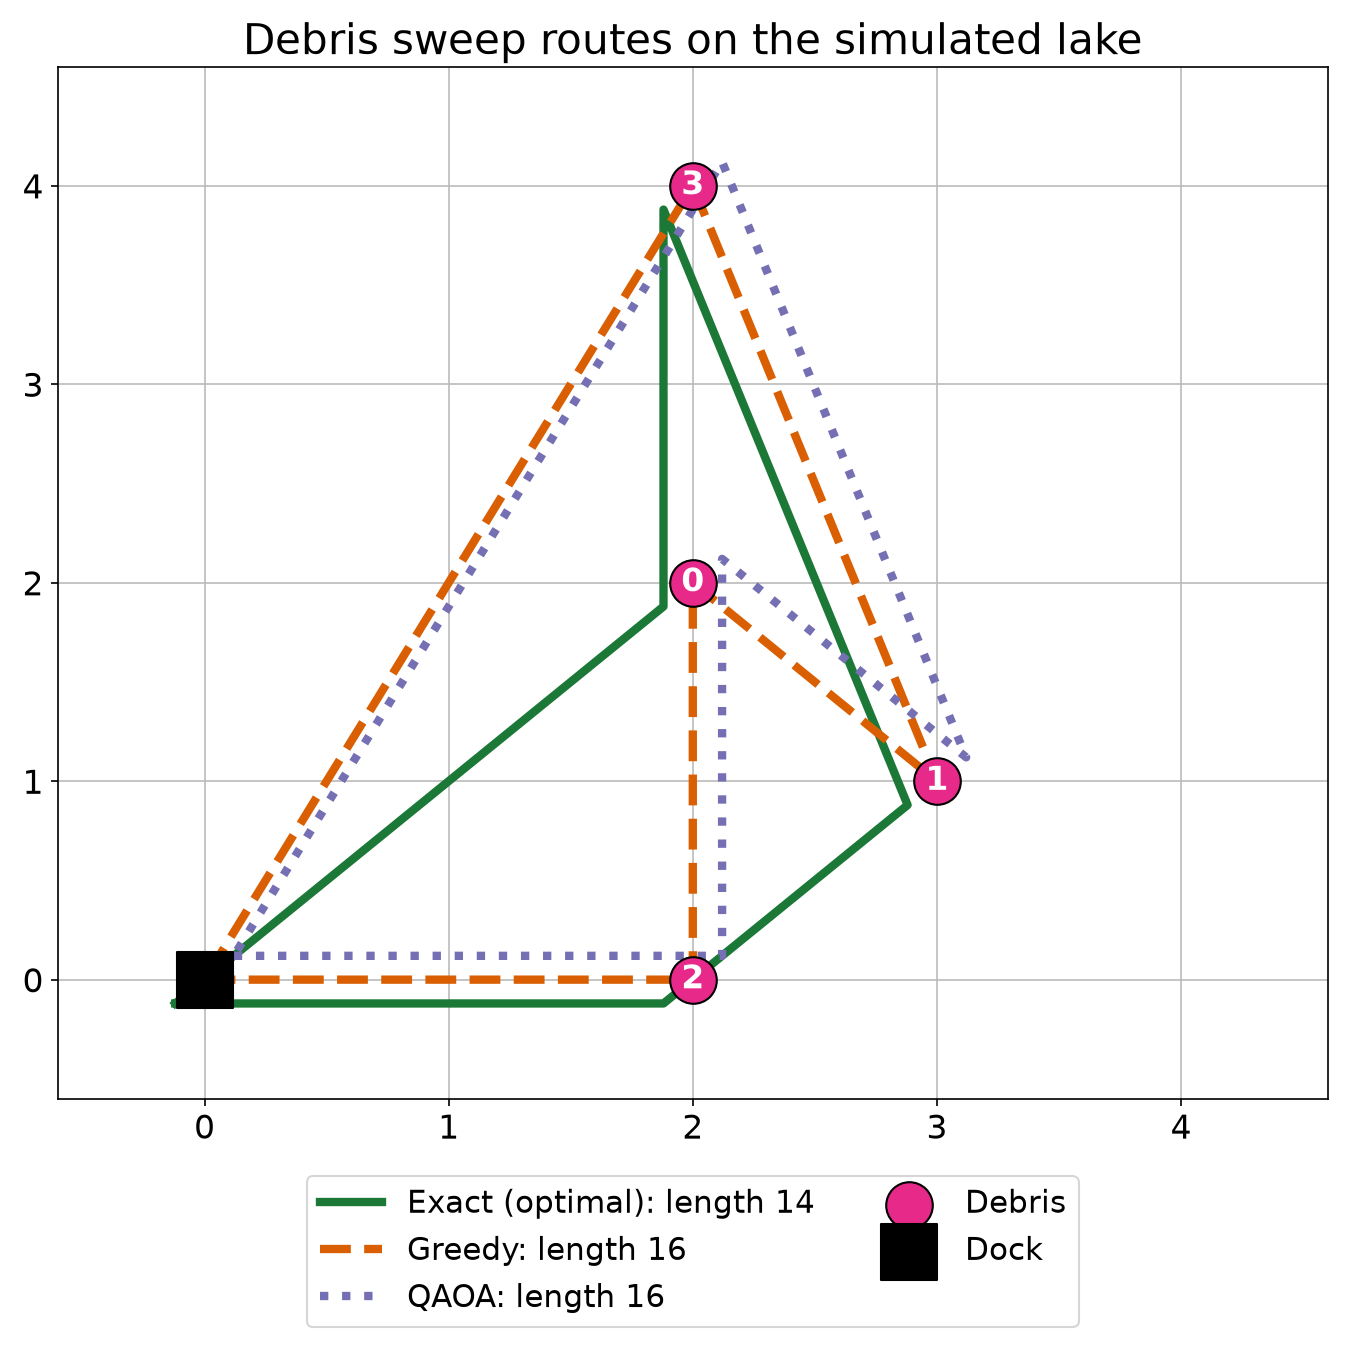
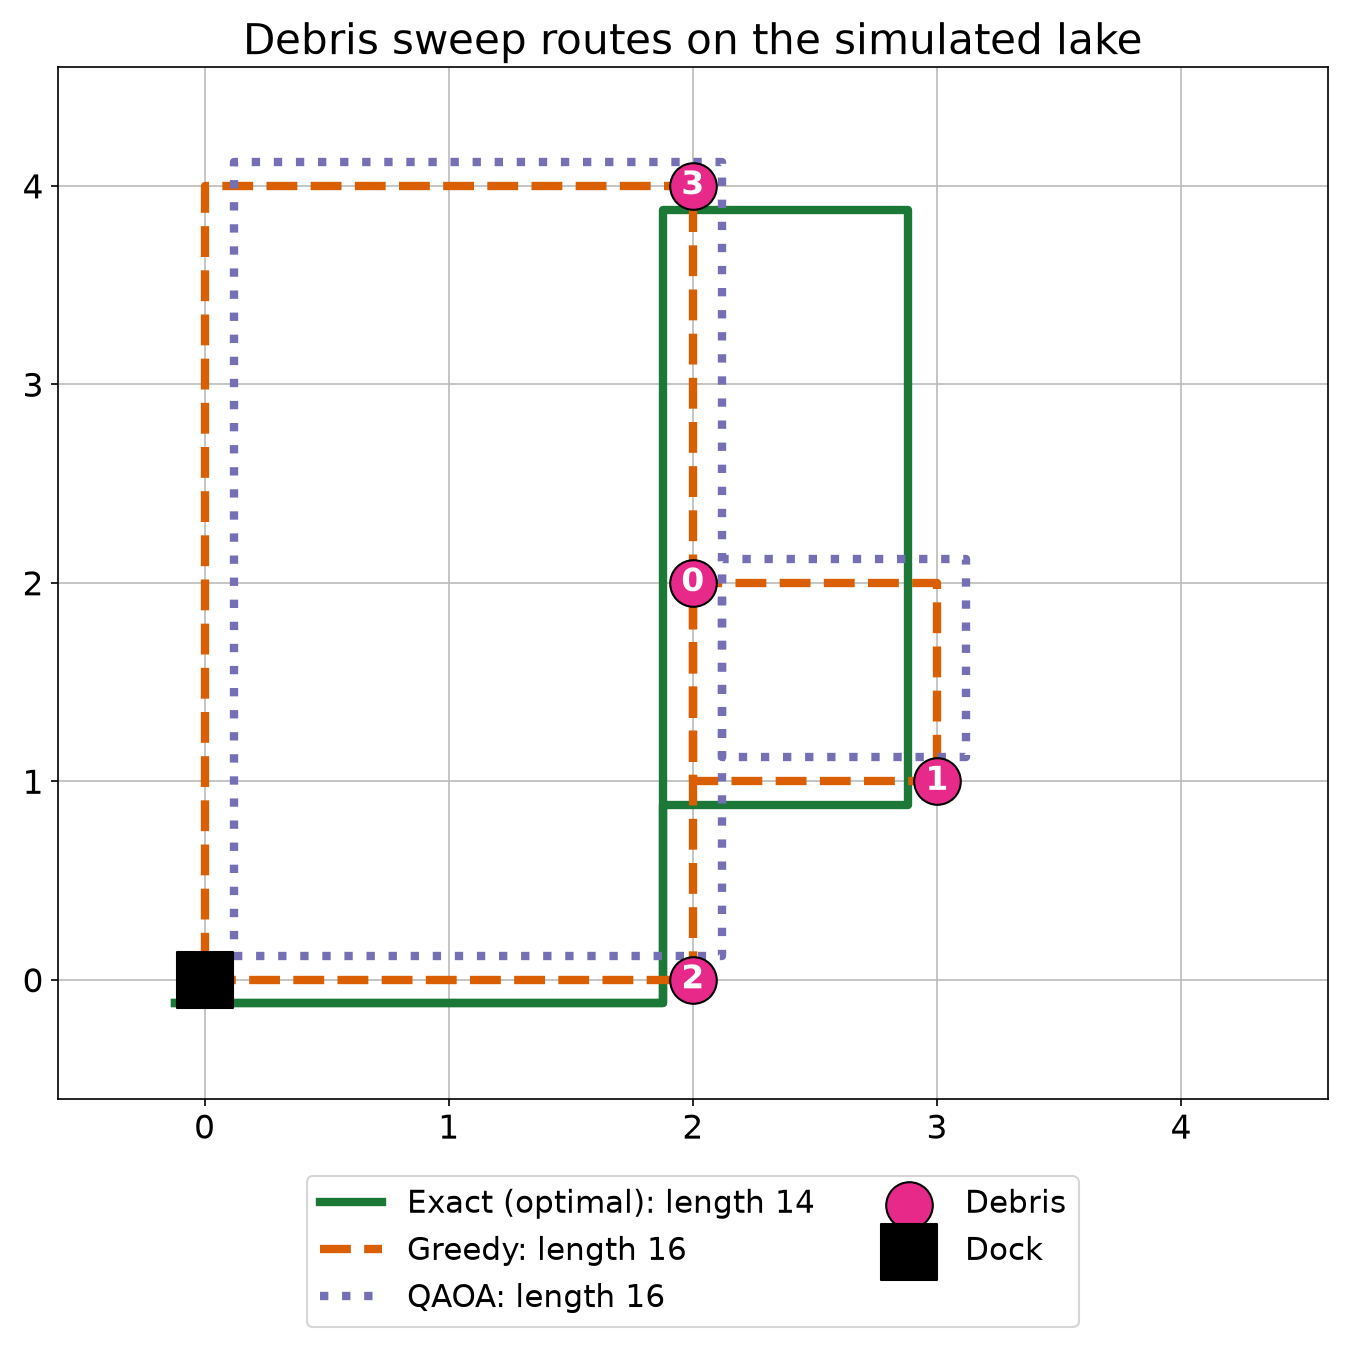
draw routes along grid lines, rework benchmark chart, add LICENSE, demo script and slide outline

diff --git a/src/plotting.py b/src/plotting.py
@@ -19,8 +19,12 @@ def plot_routes(dock, debris, routes, size=5, path="results/route_comparison.png
             ax.plot([], [], color=colour, ls=ls, lw=4, label=f"{LABELS[m]}: no valid route")
             continue
         pts = [dock] + [debris[i] for i in order] + [dock]
-        ax.plot([p[0] + off for p in pts], [p[1] + off for p in pts], color=colour,
-                ls=ls, lw=4, label=f"{LABELS[m]}: length {length}")
+        # The rover moves along grid lines, so draw each leg as an L (x first, then y).
+        xs, ys = [pts[0][0] + off], [pts[0][1] + off]
+        for (_, y0), (x1, y1) in zip(pts, pts[1:]):
+            xs += [x1 + off, x1 + off]
+            ys += [y0 + off, y1 + off]
+        ax.plot(xs, ys, color=colour, ls=ls, lw=4, label=f"{LABELS[m]}: length {length}")
     ax.scatter(*zip(*debris), s=500, c="#e7298a", edgecolor="black", zorder=5, label="Debris")
     for i, (x, y) in enumerate(debris):
         ax.text(x, y, str(i), ha="center", va="center", color="white", fontsize=16,
@@ -42,25 +46,34 @@ def plot_routes(dock, debris, routes, size=5, path="results/route_comparison.png
 
 
 def plot_benchmark(summary, path="results/benchmark.png"):
-    """summary: {k: {method: mean_ratio_or_None}} drawn as grouped bars."""
+    """summary: {k: {method: {'mean_ratio', 'optimal_rate', 'route_found_rate'}}}."""
     methods = ["exact", "greedy", "random_sampling", "qaoa_p1", "qaoa_p2"]
     colours = ["#1b7837", "#d95f02", "#999999", "#7570b3", "#c2a5cf"]
     ks = sorted(summary)
     width = 0.8 / len(methods)
-    fig, ax = plt.subplots(figsize=(11, 7))
-    for j, m in enumerate(methods):
-        vals = [summary[k].get(m) or 0 for k in ks]
-        xs = [i + j * width for i in range(len(ks))]
-        bars = ax.bar(xs, vals, width, label=m, color=colours[j], edgecolor="black")
-        for b, v in zip(bars, vals):
-            ax.text(b.get_x() + b.get_width() / 2, v + 0.01, f"{v:.2f}", ha="center", fontsize=12)
-    ax.axhline(1.0, color="black", lw=1)
-    ax.set_xticks([i + 0.4 - width / 2 for i in range(len(ks))])
-    ax.set_xticklabels([f"K = {k}" for k in ks], fontsize=16)
-    ax.set_ylabel("Mean route length / optimal (1.00 = optimal)", fontsize=15)
-    ax.set_title("Route length ratio by method", fontsize=20)
-    ax.tick_params(axis="y", labelsize=14)
-    ax.legend(fontsize=13)
-    fig.tight_layout()
+    fig, axes = plt.subplots(1, 2, figsize=(15, 7))
+    panels = [("mean_ratio", "Mean length / optimal (1.00 = optimal)", 1.0),
+              ("optimal_rate", "Fraction of seeds where optimum was found", 0.0)]
+    for ax, (key, ylabel, base) in zip(axes, panels):
+        for j, m in enumerate(methods):
+            vals = [summary[k][m][key] or 0 for k in ks]
+            xs = [i + j * width for i in range(len(ks))]
+            bars = ax.bar(xs, [v - base if base else v for v in vals], width, bottom=base,
+                          label=m, color=colours[j], edgecolor="black")
+            for b, v in zip(bars, vals):
+                ax.text(b.get_x() + b.get_width() / 2, max(v, base) + 0.01, f"{v:.2f}",
+                        ha="center", fontsize=11)
+        ax.set_xticks([i + 0.4 - width / 2 for i in range(len(ks))])
+        ax.set_xticklabels([f"K = {k}" for k in ks], fontsize=16)
+        ax.set_ylabel(ylabel, fontsize=14)
+        ax.tick_params(axis="y", labelsize=13)
+    axes[0].set_ylim(0.95, 1.22)
+    axes[1].set_ylim(0, 1.12)
+    axes[0].legend(fontsize=12, loc="upper left")
+    found = "; ".join(f"{m} {summary[max(ks)][m]['route_found_rate']:.0%}" for m in methods[2:])
+    fig.suptitle("Route quality by method", fontsize=20)
+    fig.text(0.5, 0.01, f"Ratio is averaged over seeds where a valid route was found. "
+             f"Seeds with a route at K={max(ks)}: {found}.", ha="center", fontsize=12)
+    fig.tight_layout(rect=(0, 0.04, 1, 0.97))
     fig.savefig(path, dpi=150)
     plt.close(fig)

diff --git a/run_benchmark.py b/run_benchmark.py
@@ -18,21 +18,39 @@ def summarise(rows):
     for m in dict.fromkeys(r["method"] for r in rows):
         mine = [r for r in rows if r["method"] == m]
         found = [r for r in mine if r["found_route"]]
-        has_vf = "valid_fraction" in mine[0]
+        vfs = [r["valid_fraction"] for r in mine if isinstance(r.get("valid_fraction"), float)]
         out[m] = {
             "mean_ratio": float(np.mean([r["ratio"] for r in found])) if found else None,
             "optimal_rate": sum(r["is_optimal"] for r in mine) / len(mine),
             "route_found_rate": len(found) / len(mine),
-            "mean_valid_fraction": float(np.mean([r["valid_fraction"] for r in mine])) if has_vf else None,
+            "mean_valid_fraction": float(np.mean(vfs)) if vfs else None,
         }
     return out
+
+
+def replot():
+    """Rebuild the chart from results/benchmark.csv without re-running anything."""
+    rows = []
+    for r in csv.DictReader(open("results/benchmark.csv")):
+        r["k"] = int(r["k"])
+        r["found_route"] = r["found_route"] == "True"
+        r["is_optimal"] = r["is_optimal"] == "True"
+        r["ratio"] = float(r["ratio"]) if r["ratio"] else None
+        if r["valid_fraction"]:
+            r["valid_fraction"] = float(r["valid_fraction"])
+        rows.append(r)
+    plot_benchmark({k: summarise([r for r in rows if r["k"] == k]) for k in sorted({r["k"] for r in rows})})
 
 
 def main():
     ap = argparse.ArgumentParser()
     ap.add_argument("--ks", type=int, nargs="+", default=[3, 4])
     ap.add_argument("--seeds", type=int, default=20)
+    ap.add_argument("--replot", action="store_true", help="redraw benchmark.png from the saved CSV")
     args = ap.parse_args()
+    if args.replot:
+        replot()
+        return
 
     os.makedirs("results", exist_ok=True)
     rows, summary, lines = [], {}, []
@@ -44,7 +62,7 @@ def main():
             print(f"  seed {seed} done", flush=True)
         rows += krows
         s = summarise(krows)
-        summary[k] = {m: v["mean_ratio"] for m, v in s.items()}
+        summary[k] = s
         lines.append(f"K={k}, {args.seeds} seeds")
         for m, v in s.items():
             mr = "n/a" if v["mean_ratio"] is None else f"{v['mean_ratio']:.3f}"

diff --git a/DEMO_SCRIPT.md b/DEMO_SCRIPT.md
@@ -1,0 +1,36 @@
+# Demo video script (90 to 120 seconds)
+
+Numbers below come from `results/summary.txt` (20 seeds each) and from
+`python demo.py` on seed 16. If you re-run the benchmark, check them again.
+
+## Timeline
+
+| Time | On screen | What I say |
+|---|---|---|
+| 0:00 - 0:15 | Title slide, then the Water_Rover repo page | "Last year our team built a rover that collects floating debris from water. A person steers it by hand. If debris is scattered across a lake, the order of visits decides how much battery the rover uses." |
+| 0:15 - 0:30 | Slide: "Why quantum" | "Finding the shortest route through all the spots is the travelling salesman problem. It gets hard fast as spots are added. QAOA is a quantum algorithm that researchers are testing on problems like this. I am not claiming it is faster. I wanted to see what it does on a tiny lake." |
+| 0:30 - 1:20 | Terminal: `python demo.py`, then the route figure | "This is a simulated five by five lake with a dock and four debris spots. First it builds the problem as a QUBO. That is sixteen variables, so sixteen qubits. Then QAOA runs on a simulator. It takes a few seconds. Now the comparison. The exact answer is length 14. Greedy gets 16. QAOA also gets 16, with the same route as greedy. On the map, green is exact, orange is greedy, purple is QAOA." |
+| 1:20 - 1:35 | `results/benchmark.png` | "Over twenty random lakes, greedy was within 3 percent of optimal on average. QAOA at depth one was 13 percent off and found no valid route at all on 5 lakes. Random sampling with the same number of shots did worse than QAOA, so QAOA is doing something, but greedy was better." |
+| 1:35 - 1:45 | Slide: "Limits and next steps" | "Everything here is a simulation: tiny grid, four spots, no hardware. Next I want to try real IBM hardware, add a noise study, and eventually send waypoints to the real rover." |
+
+Total is about 105 seconds spoken. Trim the benchmark line if it runs long.
+
+## Before recording
+
+- Run `python demo.py` once live so `results/demo_cached.json` is fresh.
+- For retakes use `python demo.py --cached`. It prints that the QAOA result is
+  cached, so say "this is the saved result from my earlier run" if you use it
+  in the final video.
+- Make the terminal font large (about 20 pt) so it reads on a phone.
+
+## Recording steps
+
+1. Do a dry run of `demo.py`. Close other windows and turn off notifications.
+2. Screen-record the terminal and the plot with OBS Studio or the built-in
+   recorder at 1080p, no voice. Do 2 or 3 clean takes.
+3. Record the voiceover separately while watching a clean take, in a quiet room
+   with a decent mic. Check the hackathon FAQ on AI-generated voiceovers before
+   using any AI voice tool. [FILL: confirm the policy.]
+4. Join clips in CapCut or Clipchamp, add a title card with your name, export MP4.
+5. Upload as an unlisted YouTube video or a Drive link with sharing on. Open the
+   link in a private window to test it before submitting.

diff --git a/SLIDES.md b/SLIDES.md
@@ -1,0 +1,60 @@
+# Slide outline (organisers' Canva template, make a copy first)
+
+Template: https://canva.link/b51hvxu95kmz95f
+
+Numbers are from `results/summary.txt` (20 random lakes per size) and the demo seed 16.
+
+## 1. Title
+
+- Quantum debris-sweep planner for a water-cleaning rover
+- Q-Hack India 2026, Round 1, track: Quantum AI & Software
+- Team: [FILL: names, college]
+- Simulation only. Builds on our earlier Water_Rover project.
+
+## 2. Problem
+
+- Our Water_Rover collects floating debris, but a person steers it by hand.
+- With several debris spots, the visiting order decides distance and battery use.
+- Shortest route through all spots is the travelling salesman problem (NP-hard).
+- Question: on a tiny simulated lake, can QAOA find good routes, and how does it
+  compare with simple classical planners?
+
+## 3. Why quantum
+
+- QAOA is a quantum optimisation algorithm that researchers are testing on routing problems.
+- Earlier papers report that it struggles even on small travelling salesman cases.
+- So this is a test, not a claim: we build it, run it, and report what happens.
+
+## 4. Approach
+
+- 5x5 lake grid, one dock, 4 debris spots, Manhattan distance.
+- Route as a QUBO: variable x[i][t] = spot i visited at step t. 16 variables, 16 qubits.
+- Penalties force each spot once and each step one spot. We scanned the penalty weight: below 4 the QUBO's best answer was invalid.
+- QAOA (depth 1 and 2, COBYLA) on the Aer simulator.
+- Compared with greedy nearest-neighbour, exact brute force, and a random-sampling control.
+
+## 5. Results (20 random lakes, 4 spots)
+
+| Method | Mean length / optimal | Found the optimum | Found a valid route |
+|---|---|---|---|
+| Exact | 1.00 | 100% | 100% |
+| Greedy | 1.03 | 80% | 100% |
+| Random sampling | 1.17 | 25% | 65% |
+| QAOA p=1 | 1.13 | 45% | 75% |
+| QAOA p=2 | 1.12 | 60% | 95% |
+
+- Figure: `results/benchmark.png` and `results/route_comparison.png`.
+- With 3 spots, random sampling already finds the optimum every time, so that size says little about QAOA.
+
+## 6. Limitations
+
+- Simulator only. No real quantum hardware. No noise model.
+- Tiny grid, 3 to 4 spots. Only a small share of sampled bitstrings are valid routes (about 0.3% at 4 spots).
+- Greedy beat QAOA. We make no claim of speedup or advantage.
+
+## 7. Next steps
+
+- Run on real IBM hardware through Qiskit.
+- Study how noise changes the valid-route rate.
+- Add currents, obstacles and battery limits.
+- Send planned waypoints to the real rover.
